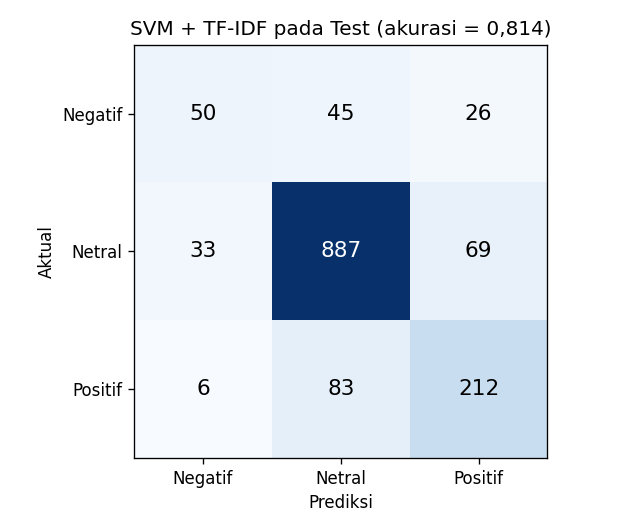
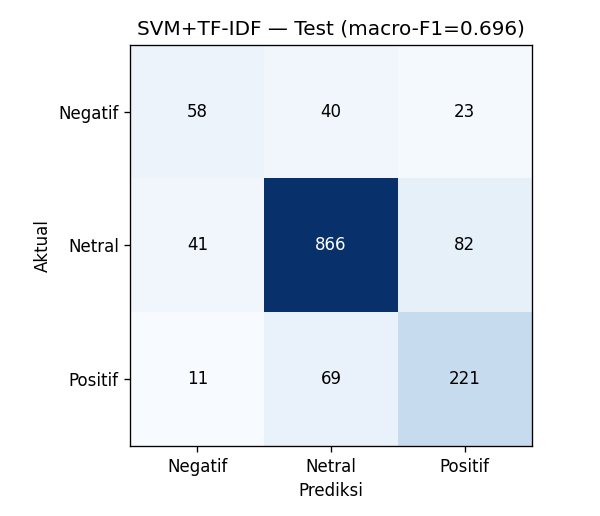
fix: lindungi kata se- bermuatan sikap dari over-stemming Sastrawi
setuju->tuju, sependapat->dapat dst. didaftarkan sbg root word di kamus
stemmer (udf.py + _backfill_processed_svm.py), sebelum stem pertama
(CachedStemmer meng-cache). Re-run pipeline penuh 14k: F1 Negatif naik
(sklearn +2,6pp, Spark +3,3pp), akurasi ~datar. IndoBERT tak terpengaruh.
handoff.md sec.6 ditandai selesai.

diff --git a/src/spark/udf.py b/src/spark/udf.py
@@ -19,6 +19,13 @@ from src.text_normalizer import clean_for_bert, preprocess_svm_python
 # Lazy singleton: dibuat sekali per proses worker Python, bukan per baris.
 _STEMMER = None
 
+# Kata yang DILINDUNGI dari over-stemming Sastrawi. Prefiks "se-" untuk kata
+# bermuatan sikap ("se-" = setuju/sependapat) di-stem jadi root yang kehilangan
+# makna: setuju->tuju, sependapat->dapat. Didaftarkan sebagai root word ke kamus
+# stemmer agar dikenali utuh. WAJIB ditambahkan SEBELUM stem pertama (CachedStemmer
+# meng-cache hasil per kata, jadi add() setelah stem tidak berefek).
+_PROTECTED_ROOTS = ("setuju", "sependapat", "sepaham", "sepakat")
+
 
 # bikin stemmer Sastrawi SEKALI per proses worker (lazy singleton), bukan tiap baris
 def _stemmer():
@@ -26,7 +33,12 @@ def _stemmer():
     if _STEMMER is None:
         from Sastrawi.Stemmer.StemmerFactory import StemmerFactory
 
-        _STEMMER = StemmerFactory().create_stemmer()
+        stemmer = StemmerFactory().create_stemmer()
+        # create_stemmer() -> CachedStemmer; kamus ada di .delegatedStemmer
+        inner = getattr(stemmer, "delegatedStemmer", stemmer)
+        for word in _PROTECTED_ROOTS:
+            inner.dictionary.add(word)
+        _STEMMER = stemmer
     return _STEMMER
 
 

diff --git a/src/modeling/_backfill_processed_svm.py b/src/modeling/_backfill_processed_svm.py
@@ -59,6 +59,11 @@ def main() -> None:
     from Sastrawi.Stemmer.StemmerFactory import StemmerFactory
 
     stemmer = StemmerFactory().create_stemmer()
+    # Lindungi kata "se-" bermuatan sikap dari over-stemming (setuju->tuju, dst.).
+    # Harus sebelum stem pertama (CachedStemmer meng-cache). Samakan dgn src/spark/udf.py.
+    _inner = getattr(stemmer, "delegatedStemmer", stemmer)
+    for _w in ("setuju", "sependapat", "sepaham", "sepakat"):
+        _inner.dictionary.add(_w)
 
     # sama persis dgn udf.make_svm_text: preprocess lalu stem string penuh
     def make_text_svm(text: str) -> str:

diff --git a/handoff.md b/handoff.md
@@ -93,13 +93,17 @@ cp outputs/labeling/labeling_dataset.backup_20260624.csv outputs/labeling/labeli
 - [ ] Regen perbandingan 3 model + update laporan PDF (setelah IndoBERT).
       **Metrik utama = AKURASI** (keputusan user 2026-06-24; macro-F1 dibuang dari
       tabel/chart karena data timpang 70% Netral → akurasi yang dipakai).
-- [ ] **(DITUNDA) Fix over-stemming Sastrawi** `setuju→tuju` (juga `sependapat→dapat`,
-      `sepaham`). Cara: tambah kata terlindungi ke kamus stemmer di `src/spark/udf.py`
-      via `stemmer.delegatedStemmer.dictionary.add(<kata>)`. Lalu **re-run** pipeline
-      preprocessing→SVM (regenerate_processed_mongo → export_mongo → preprocess_spark →
-      train_svm_full14k → train_svm_spark; ~12–20 mnt). Dampak KECIL: hanya 0,8% baris
-      (112/14107), tidak mengubah label, IndoBERT tak terpengaruh (kolom `bert` tanpa stem).
-      Lihat §5 untuk urutan perintah.
+- [x] **(SELESAI 2026-06-24) Fix over-stemming Sastrawi** `setuju→tuju`,
+      `sependapat→dapat`. Kata `setuju/sependapat/sepaham/sepakat` didaftarkan sbg root
+      word ke kamus stemmer di `src/spark/udf.py` (+`_backfill_processed_svm.py`), WAJIB
+      sebelum stem pertama karena `CachedStemmer` meng-cache. Pipeline penuh sudah di-re-run
+      (regenerate_processed_mongo → export_mongo → preprocess_spark → train_svm_full14k →
+      train_svm_spark; ~17 mnt). Dampak kecil tapi positif: **F1 Negatif naik** (sklearn
+      0,476→0,502 +2,6pp; Spark 0,41→0,443 +3,3pp), akurasi ~datar (sklearn 0,814→0,8115;
+      Spark 0,768→0,7725), macro-F1 naik di keduanya. IndoBERT tak terpengaruh (kolom `bert`
+      tanpa stem) → tak perlu re-train ulang gara-gara ini.
+      Catatan: `try_stem_sastrawi` di `text_normalizer.py` punya bug serupa tapi DEAD CODE
+      (tak dipakai) → sengaja dibiarkan.
 - [x] LS predictions id=1: ter-push ~59% (terpotong timeout 90 mnt; kosmetik, Mongo = truth).
 - [x] Commit & push (commit `24791e6`, `8a56e67`, `116a887` di main).
 